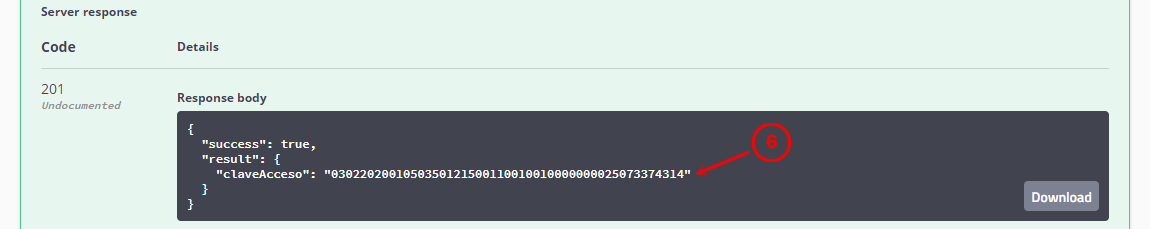
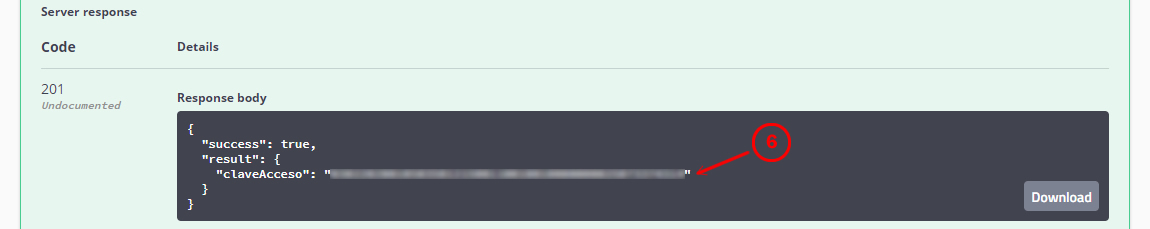
Add static files

Changed region(s): [[0.2739, 0.7336, 0.6087, 0.7948]]

diff --git a/COMPROBANTES.md b/COMPROBANTES.md
@@ -1,0 +1,131 @@
+# Comprobantes
+En esta sección se describirá el proceso de creación de comprobantes electrónicos utilizando el formato Json. Dado que el proceso es el mismo para los 6 tipos de comprobantes, sólo se ejemplificará el caso de las facturas.
+
+Para esto, se deberá seguir los siguiente pasos:
+
+1. Hacer clic en la sección `Comprobantes` y a continuación dirigirse a la opción `Crear una factura`.
+<img src="https://raw.githubusercontent.com/rp-consulting/veronica-api-doc/main/static/veronica-facturas-1.jpg" width="600">
+
+2. Hacer clic en el botón `Try it out`.
+<img src="https://raw.githubusercontent.com/rp-consulting/veronica-api-doc/main/static/veronica-facturas-2.jpg" width="600">
+
+3. Especificar los datos del comprobante, a continuación se muestra un ejemplo de factura en formato Json. En este objeto, deberá cambiar los campos `ruc`, `fechaEmision` y `secuencial` por su número de R.U.C., la fecha actual y el secuencial correspondiente.
+
+Otro campo importante a modificar es el correo del receptor de la factura en la sección `value` del final del objeto Json.
+```json
+{
+  "id":"comprobante",
+  "version":"1.1.0",
+  "infoTributaria":{
+    "ambiente":"1",
+    "tipoEmision":"1",
+    "razonSocial":"Suministros Nacionales S.A.",
+    "nombreComercial":"Empresa Importadora y Exportadora de Piezas",
+    "ruc":"",
+    "codDoc":"01",
+    "estab":"001",
+    "ptoEmi":"001",
+    "secuencial":"000000001",
+    "dirMatriz":"Enrique Guerrero Portilla OE1-34 AV. Galo Plaza Lasso"
+  },
+  "infoFactura":{
+    "fechaEmision":"03/02/2021",
+    "dirEstablecimiento":"Sebastián Moreno S/N Francisco García",
+    "contribuyenteEspecial":"5368",
+    "obligadoContabilidad":"SI",
+    "tipoIdentificacionComprador":"04",
+    "guiaRemision":"001-001-000000001",
+    "razonSocialComprador":"PRUEBAS SERVICIO DE RENTAS INTERNAS",
+    "identificacionComprador":"1713328506001",
+    "direccionComprador":"salinas y santiago",
+    "totalSinImpuestos":19.00,
+    "totalDescuento":0.00,
+    "totalImpuesto":[
+      {
+        "codigo":"2",
+        "codigoPorcentaje":"2",
+        "baseImponible":19.00,
+        "valor":2.28
+      }
+    ],
+    "propina":0,
+    "importeTotal":21.28,
+    "moneda":"DOLAR",
+    "pagos":[
+      {
+        "formaPago":"20",
+        "total":21.28,
+        "plazo":"0",
+        "unidadTiempo":"dias"
+      }
+    ],
+    "valorRetIva":0.00,
+    "valorRetRenta":0.00
+  },
+  "detalle":[
+    {
+      "codigoPrincipal":"125BJC-01",
+      "codigoAuxiliar":"1234D56789-A",
+      "descripcion":"CAMIONETA 4X4 DIESEL 3.7",
+      "cantidad":1.0,
+      "precioUnitario":19.00,
+      "descuento":0.00,
+      "precioTotalSinImpuesto":19.00,
+      "detAdicional":[
+        {
+          "nombre":"Marca Chevrolet",
+          "valor":"Chevrolet"
+        },
+        {
+          "nombre":"Modelo",
+          "valor":"2012"
+        },
+        {
+          "nombre":"Chasis",
+          "valor":"8LDETA03V20003289"
+        }
+      ],
+      "impuesto":[
+        {
+          "codigo":"2",
+          "codigoPorcentaje":"2",
+          "tarifa":12,
+          "baseImponible":19.00,
+          "valor":2.28
+        }
+      ]
+    }
+  ],
+  "campoAdicional":[
+    {
+      "nombre":"Codigo Impuesto ISD",
+      "value":"4580"
+    },
+    {
+      "nombre":"Impuesto ISD",
+      "value":"15.42x"
+    },
+    {
+      "nombre":"emailCliente",
+      "value":""
+    }
+  ]
+}
+```
+
+4. Si la ejecución fue correcta, se desplegará la clave de acceso del comprobante tal como se muestra a continuación. A partir de este momento, cualquier operación que se requiera hacer con la factura, se podrá realizar sólo indicando la clave de acceso.
+<img src="https://raw.githubusercontent.com/rp-consulting/veronica-api-doc/main/static/veronica-facturas-3.jpg" width="600">
+
+5. También podemos utilizar la opción que retorna los archivos asociados a la factura, tal como se muestra en la imagen.
+<img src="https://raw.githubusercontent.com/rp-consulting/veronica-api-doc/main/static/veronica-facturas-4.jpg" width="600">
+
+6. Por ejemplo, si queremos consultar el XML, bastará con realizar la siguiente acción:
+<img src="https://raw.githubusercontent.com/rp-consulting/veronica-api-doc/main/static/veronica-facturas-5.jpg" width="600">
+
+7. Una vez ejecutada la solicitud, se podrá ver a continuación el XML de nuestro comprobante.
+<img src="https://raw.githubusercontent.com/rp-consulting/veronica-api-doc/main/static/veronica-facturas-6.jpg" width="600">
+
+<img src="https://raw.githubusercontent.com/rp-consulting/veronica-api-doc/main/static/veronica-facturas-7.jpg" width="600">
+
+8. Los mismos pasos se pueden ejecutar para obtener el documento en formato PDF.
+<img src="https://raw.githubusercontent.com/rp-consulting/veronica-api-doc/main/static/veronica-facturas-8.jpg" width="600">
